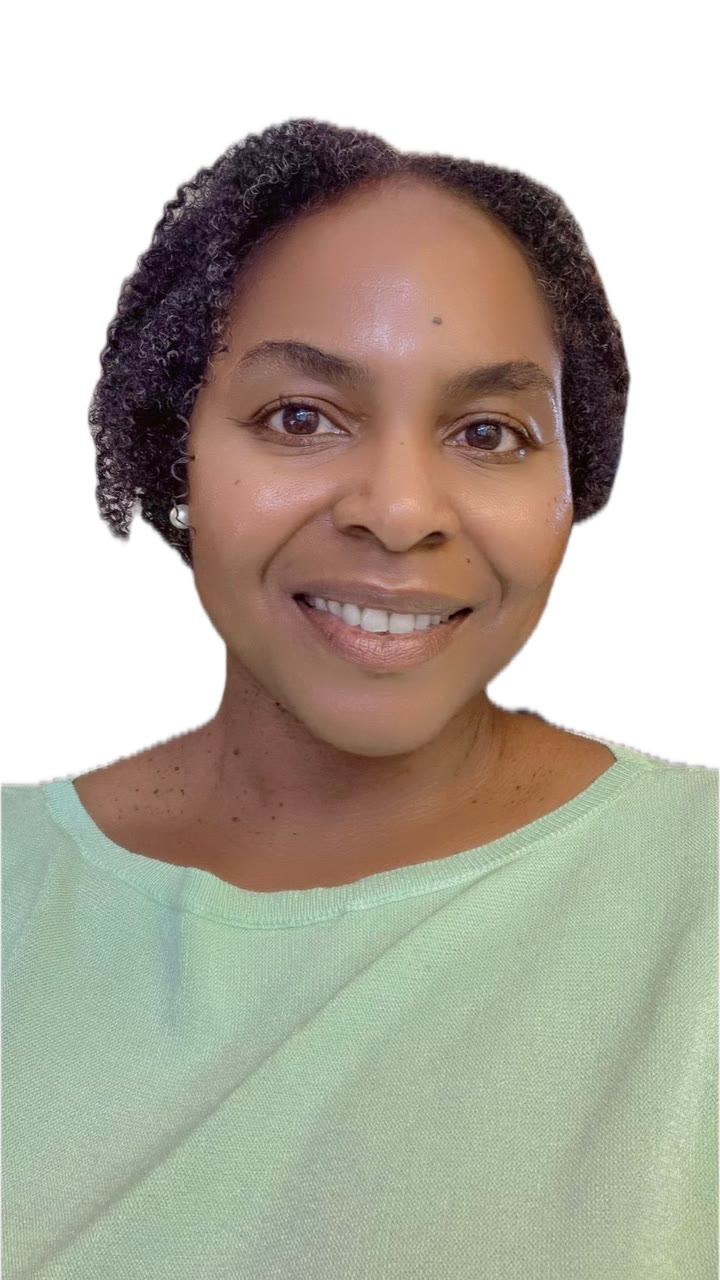
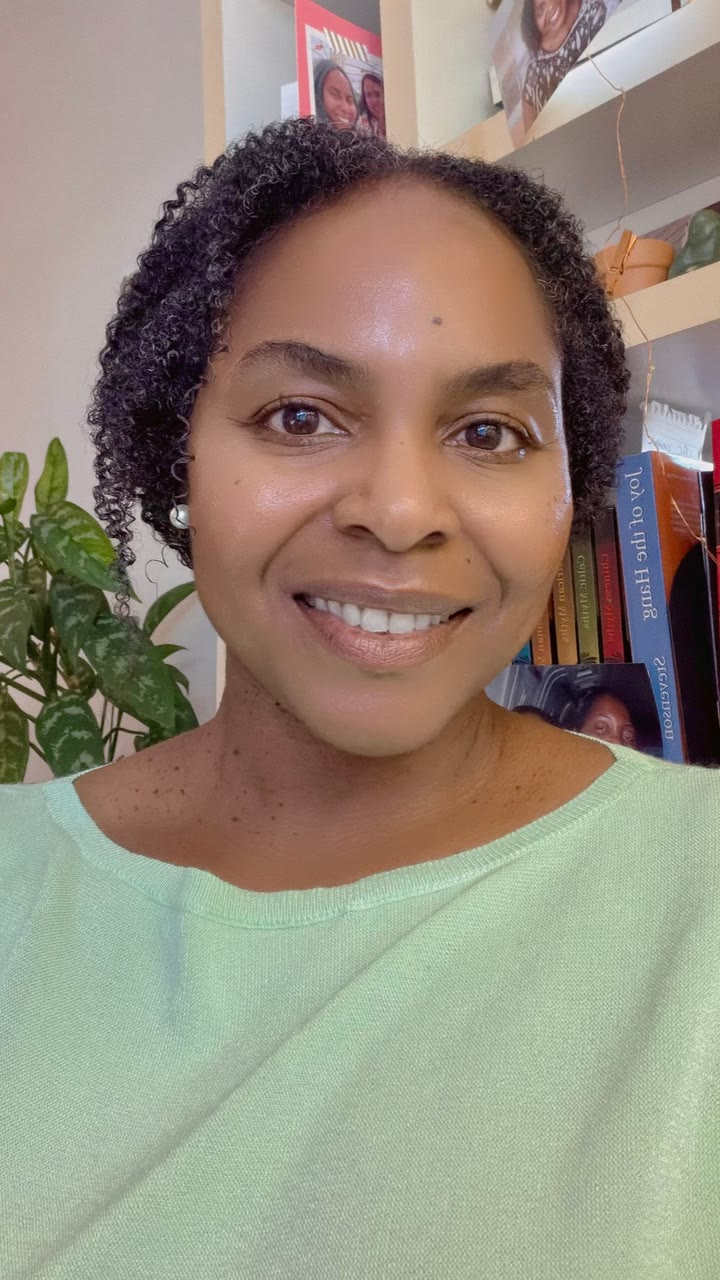
Use original-background headshot as intro poster

diff --git a/index.html b/index.html
@@ -175,7 +175,7 @@ footer .wrap{display:flex;justify-content:space-between;gap:16px;flex-wrap:wrap}
       </div>
     </div>
     <div class="phone">
-      <video src="media/intro.mp4?v=6" poster="media/intro.jpg?v=6" controls playsinline preload="metadata" aria-label="Geo introduces herself"></video>
+      <video src="media/intro.mp4?v=7" poster="media/intro.jpg?v=7" controls playsinline preload="metadata" aria-label="Geo introduces herself"></video>
       <div class="sticker">Gen X<br>&amp; proud</div>
       <button type="button" class="play" aria-label="Play my intro video"></button>
       <button type="button" class="tag"><b>Hi, I'm Geo!</b>Tap to meet me</button>
